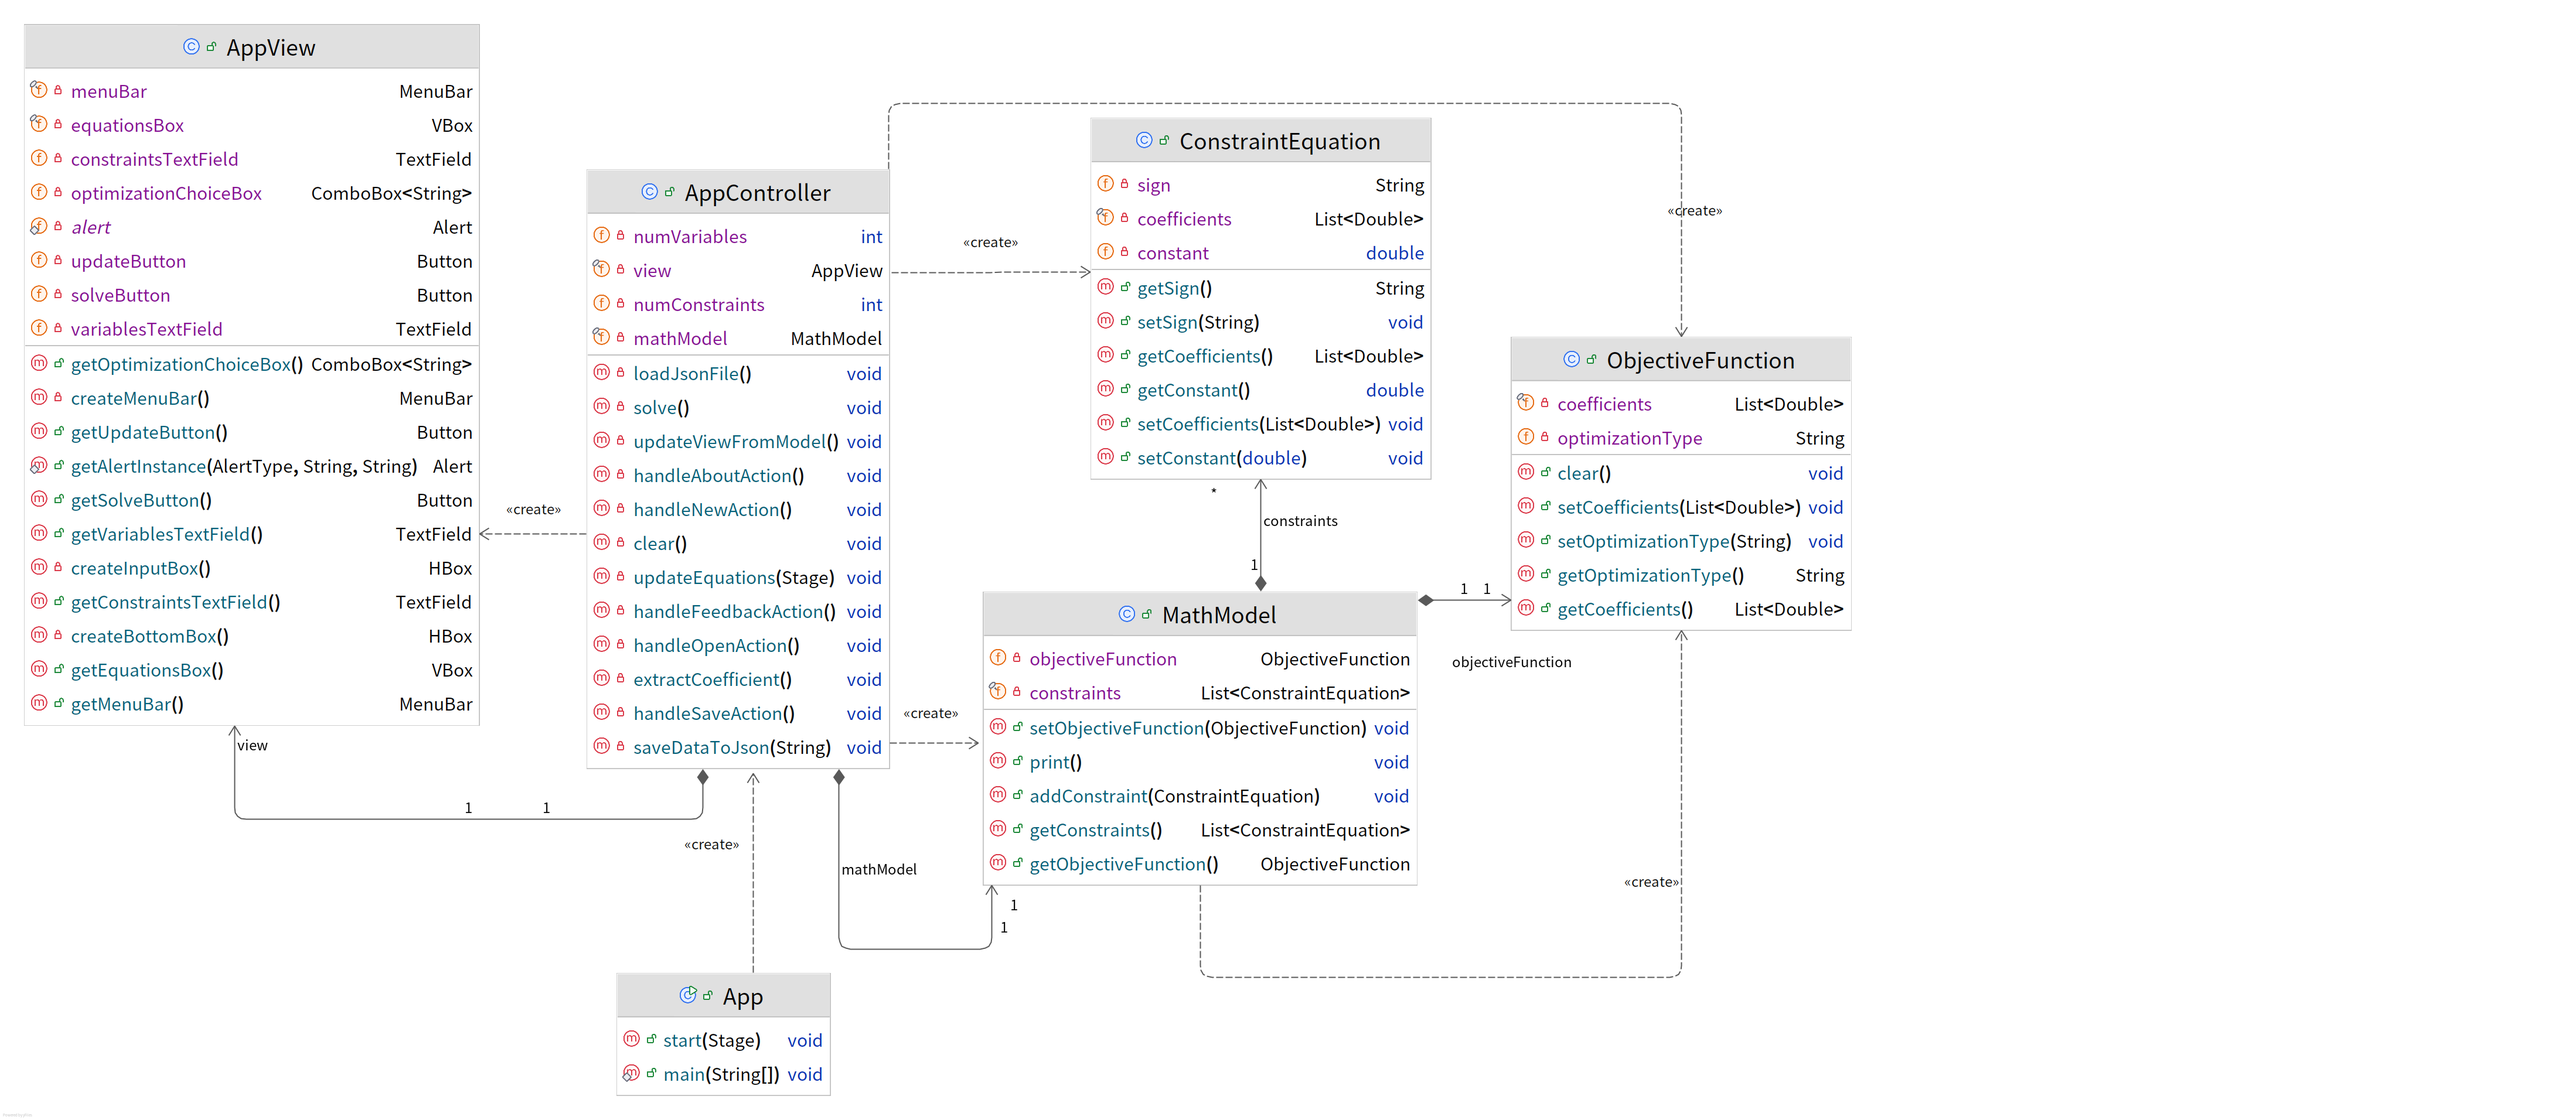
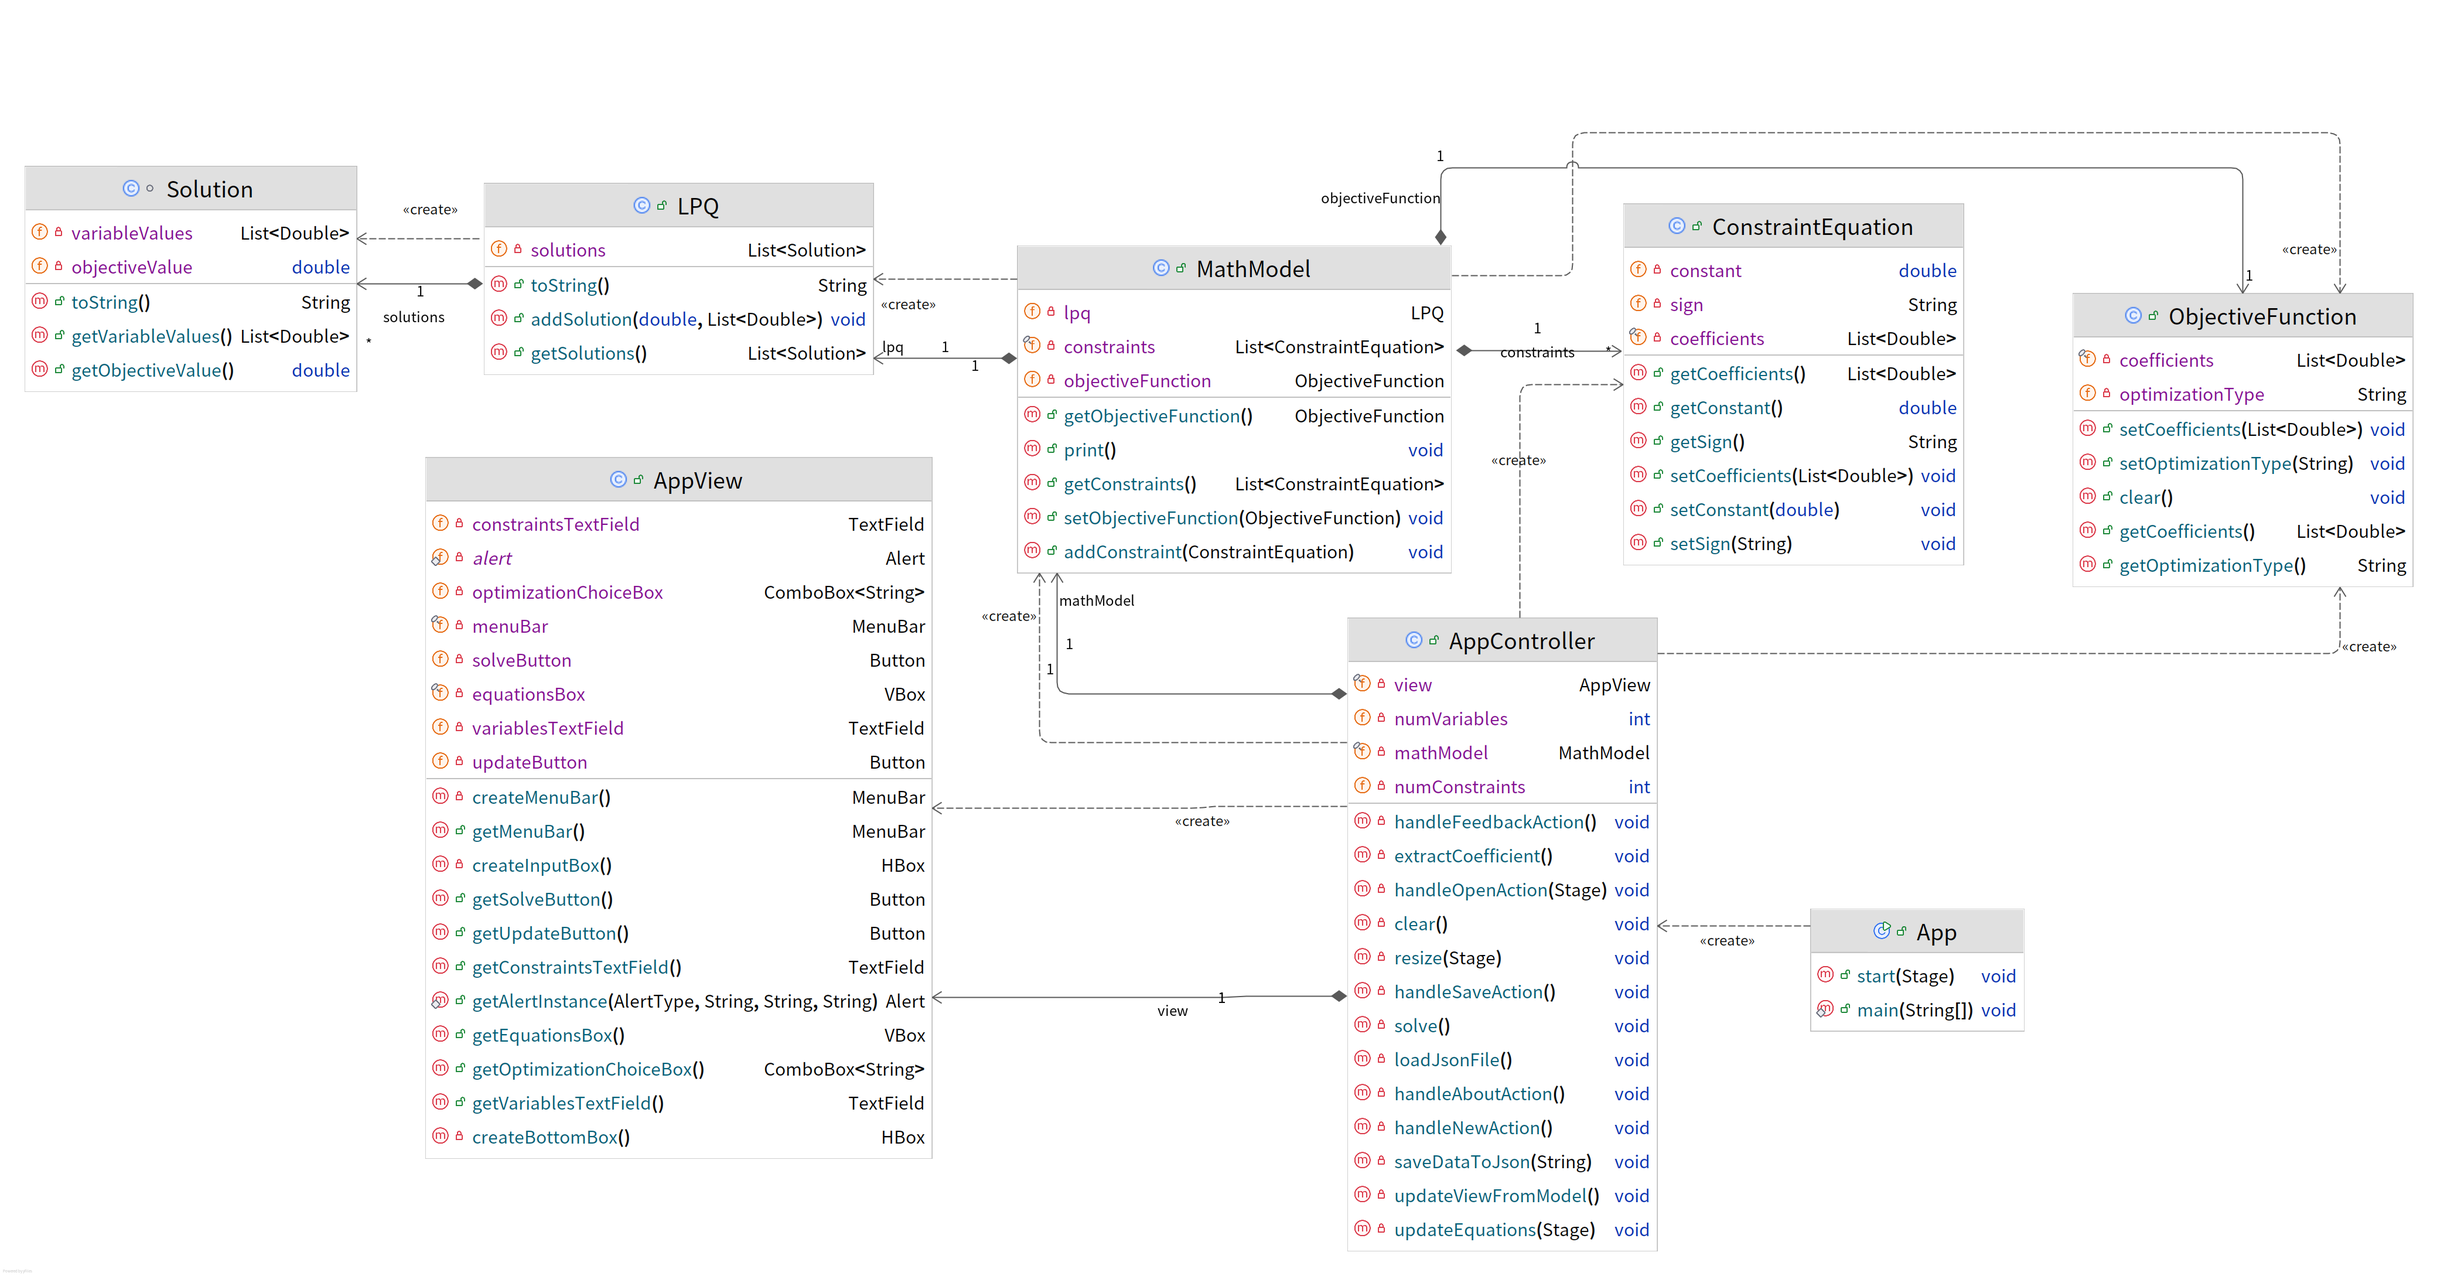
add solution

diff --git a/src/main/java/com/scuse/controller/AppController.java b/src/main/java/com/scuse/controller/AppController.java
@@ -1,4 +1,3 @@
-// Controller/AppController.java
 package com.scuse.controller;
 
 import com.scuse.App;
@@ -46,7 +45,7 @@ public class AppController {
                         item.setOnAction(_ -> handleNewAction());
                         break;
                     case "Open":
-                        item.setOnAction(_ -> handleOpenAction());
+                        item.setOnAction(_ -> handleOpenAction(primaryStage));
                         break;
                     case "Save":
                         item.setOnAction(_ -> handleSaveAction());
@@ -71,8 +70,9 @@ public class AppController {
         view.getConstraintsTextField().clear();
     }
 
-    private void handleOpenAction() {
+    private void handleOpenAction(Stage primaryStage) {
         loadJsonFile();
+        resize(primaryStage);
     }
 
     private void handleSaveAction() {
@@ -97,7 +97,7 @@ public class AppController {
     }
 
     private void handleAboutAction() {
-        Alert aboutAlert = AppView.getAlertInstance(Alert.AlertType.INFORMATION, "About", "This is a Simplex Solver GUI.");
+        Alert aboutAlert = AppView.getAlertInstance(Alert.AlertType.INFORMATION, "About", "Simplex Calculator", "This is a Simplex Calculator GUI.");
         aboutAlert.showAndWait();
     }
 
@@ -187,10 +187,10 @@ public class AppController {
 
                 // 更新视图
                 updateViewFromModel();
-                Alert alert = AppView.getAlertInstance(Alert.AlertType.INFORMATION, "Success", "Data loaded successfully.");
+                Alert alert = AppView.getAlertInstance(Alert.AlertType.INFORMATION, "Success", "Opened file", "Data loaded successfully.");
                 alert.showAndWait();
             } catch (Exception e) {
-                Alert alert = AppView.getAlertInstance(Alert.AlertType.ERROR, "Error", "Failed to load data: " + e.getMessage());
+                Alert alert = AppView.getAlertInstance(Alert.AlertType.ERROR, "Error", "Open file failed", "Failed to load data: " + e.getMessage());
                 alert.showAndWait();
             }
         }
@@ -205,7 +205,7 @@ public class AppController {
         // 更新约束个数
         view.getConstraintsTextField().setText(String.valueOf(numConstraints));
         // 更新约束方程
-        Label constraintLabel = new Label("Constraint Functions:");
+        Label constraintLabel = new Label("Constraint Functions(Please input coefficients in order):");
         view.getEquationsBox().getChildren().add(constraintLabel);
         for (ConstraintEquation constraint : mathModel.getConstraints()) {
             HBox equationBox = new HBox(10);
@@ -227,14 +227,14 @@ public class AppController {
         }
 
         // 更新目标方程
-        HBox objectiveFunctionBox = new HBox(10);
         Label objectiveLabel = new Label("Objective Function:");
-        objectiveFunctionBox.getChildren().add(objectiveLabel);
+        view.getEquationsBox().getChildren().add(objectiveLabel);
+        HBox objectiveFunctionInputBox = new HBox(10);
         for (Double coefficient : mathModel.getObjectiveFunction().getCoefficients()) {
             TextField coefficientField = new TextField(coefficient.toString());
-            objectiveFunctionBox.getChildren().add(coefficientField);
+            objectiveFunctionInputBox.getChildren().add(coefficientField);
         }
-        view.getEquationsBox().getChildren().add(objectiveFunctionBox);
+        view.getEquationsBox().getChildren().add(objectiveFunctionInputBox);
 
         // 更新优化类型
         view.getOptimizationChoiceBox().setValue(mathModel.getObjectiveFunction().getOptimizationType());
@@ -246,7 +246,7 @@ public class AppController {
         try {
             numVariables = Integer.parseInt(view.getVariablesTextField().getText());
             numConstraints = Integer.parseInt(view.getConstraintsTextField().getText());
-            Label constraintLabel = new Label("Constraint Functions:");
+            Label constraintLabel = new Label("Constraint Functions(Please input coefficients in order):");
             view.getEquationsBox().getChildren().add(constraintLabel);
             // 生成约束方程输入框
             for (int i = 0; i < numConstraints; i++) {
@@ -285,13 +285,9 @@ public class AppController {
             }
             view.getEquationsBox().getChildren().add(objectiveFunctionInputBox);
 
-            // 动态调整窗口大小
-            double newWidth = Math.max(600, 200 + numVariables * 82);
-            double newHeight = Math.max(400, 265 + numConstraints * 60);
-            primaryStage.setWidth(newWidth);
-            primaryStage.setHeight(newHeight);
+            resize(primaryStage);
         } catch (NumberFormatException e){
-            Alert alert = AppView.getAlertInstance(Alert.AlertType.ERROR, "Error", "Invalid input: " + e.getMessage());
+            Alert alert = AppView.getAlertInstance(Alert.AlertType.ERROR, "Error", "Input Error", "Invalid input: " + e.getMessage());
             alert.showAndWait();
         }
     }
@@ -361,9 +357,17 @@ public class AppController {
             mathModel.setObjectiveFunction(objectiveFunction);
         } catch (Exception e) {
             // 错误处理
-            Alert alert = AppView.getAlertInstance(Alert.AlertType.ERROR, "Error", "Invalid input: " + e.getMessage());
+            Alert alert = AppView.getAlertInstance(Alert.AlertType.ERROR, "Error", "Input Error", "Invalid input: " + e.getMessage());
             alert.showAndWait();
         }
+    }
+
+    private void resize(Stage primaryStage) {
+        // 动态调整窗口大小
+        double newWidth = Math.max(600, 200 + numVariables * 82);
+        double newHeight = Math.max(400, 265 + numConstraints * 60);
+        primaryStage.setWidth(newWidth);
+        primaryStage.setHeight(newHeight);
     }
 
     private void solve() {

diff --git a/src/main/java/com/scuse/model/LPQ.java b/src/main/java/com/scuse/model/LPQ.java
@@ -1,0 +1,65 @@
+package com.scuse.model;
+
+import java.util.ArrayList;
+import java.util.List;
+
+// 单个解
+class Solution {
+    private double objectiveValue; // 目标函数值
+    private List<Double> variableValues; // 变量值
+
+    public Solution(double objectiveValue, List<Double> variableValues) {
+        this.objectiveValue = objectiveValue;
+        this.variableValues = new ArrayList<>(variableValues);
+    }
+
+    public double getObjectiveValue() {
+        return objectiveValue;
+    }
+
+    public List<Double> getVariableValues() {
+        return variableValues;
+    }
+
+    @Override
+    public String toString() {
+        StringBuilder result = new StringBuilder();
+        result.append("Objective Value: ").append(objectiveValue).append("\n");
+        result.append("Variable Values: ");
+        for (int i = 0; i < variableValues.size(); i++) {
+            result.append("x").append(i + 1).append("=").append(variableValues.get(i)).append(" ");
+        }
+        return result.toString();
+    }
+}
+
+// 解集
+public class LPQ {
+    private List<Solution> solutions; // 存储多个解
+
+    public LPQ() {
+        this.solutions = new ArrayList<>();
+    }
+
+    public List<Solution> getSolutions() {
+        return solutions;
+    }
+
+    public void addSolution(double objectiveValue, List<Double> variableValues) {
+        solutions.add(new Solution(objectiveValue, variableValues));
+    }
+
+    @Override
+    public String toString() {
+        if (solutions.isEmpty()) {
+            return "No solutions found.";
+        }
+
+        StringBuilder result = new StringBuilder();
+        for (int i = 0; i < solutions.size(); i++) {
+            result.append("Solution ").append(i + 1).append(":\n");
+            result.append(solutions.get(i).toString()).append("\n");
+        }
+        return result.toString();
+    }
+}

diff --git a/src/main/java/com/scuse/view/AppView.java b/src/main/java/com/scuse/view/AppView.java
@@ -124,12 +124,13 @@ public class AppView {
         return menuBar;
     }
 
-    public static Alert getAlertInstance(Alert.AlertType alertType, String title, String content) {
+    public static Alert getAlertInstance(Alert.AlertType alertType, String title, String header, String content) {
         if (alert == null) {
             alert = new Alert(alertType);
         }
         alert.setAlertType(alertType);
         alert.setTitle(title);
+        alert.setHeaderText(header);
         alert.setContentText(content);
         return alert;
     }

diff --git a/src/main/java/com/scuse/model/MathModel.java b/src/main/java/com/scuse/model/MathModel.java
@@ -6,10 +6,12 @@ import java.util.List;
 public class MathModel {
     private ObjectiveFunction objectiveFunction;
     private final List<ConstraintEquation> constraints;
+    private LPQ lpq;
 
     public MathModel() {
         objectiveFunction = new ObjectiveFunction();
         constraints = new ArrayList<>();
+        lpq = new LPQ();
     }
 
     public ObjectiveFunction getObjectiveFunction() {

diff --git a/README.md b/README.md
@@ -53,6 +53,7 @@ Maximize:
 $z=3x+2y$
 
 Subject to:
+
 $$
 \begin{cases}
 x+y &\leq 4 \\
